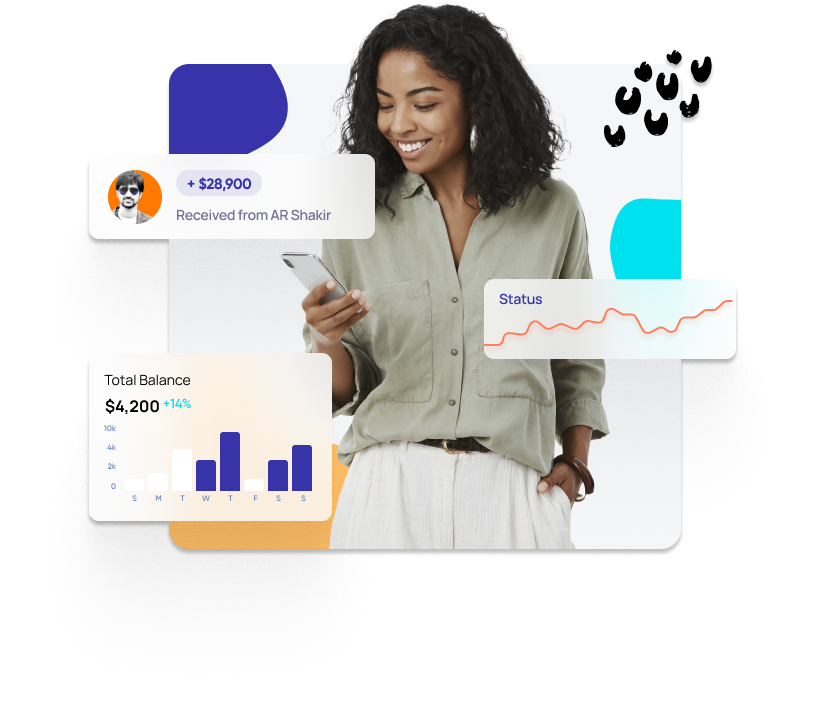
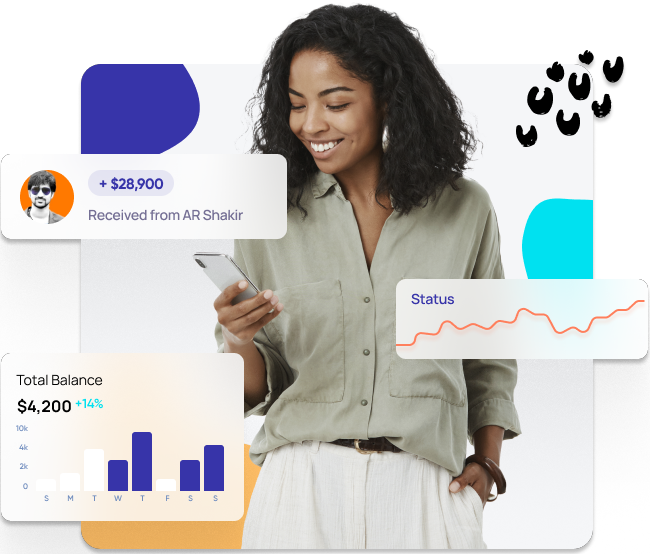
flexbox added

diff --git a/style.css b/style.css
@@ -1,3 +1,9 @@
+:root{
+    --primary-color:#3734A9;
+    --heading-color:#000;
+    --text-color:#757095;
+    --white-color:#fff;
+}
 *{
     margin: 0;
     padding: 0;
@@ -47,7 +53,7 @@ a, a:hover{
 }
 .navbar .menu ul li a{
     font-family: 'Manrope';
-    color: #000;
+    color: var(--heading-color);
     font-size: 14px;
     font-weight: 400;
 }
@@ -62,7 +68,7 @@ a, a:hover{
     text-align: right;
 }
 .navbar .nav-button .signin-btn{
-    color: #000;
+    color: var(--heading-color);
     font-family: 'Manrope';
     font-weight: 400;
     font-size: 14px;
@@ -74,8 +80,8 @@ a, a:hover{
     border: 0;
     padding: 17px 35px;
     border-radius: 7px;
-    background-color: #3734A9;
-    color: #fff;
+    background-color: var(--primary-color);
+    color: var(--white-color);
     font-family: 'Manrope';
     font-weight: 600;
     font-size: 14px;
@@ -90,7 +96,7 @@ a, a:hover{
 
 }
 .banner .banner-left .banner-text h1{
-    color: #000;
+    color: var(--heading-color);
     font-family: 'Manrope';
     font-size: 60px;
     font-weight: 800;
@@ -98,7 +104,7 @@ a, a:hover{
     letter-spacing: -0.03em;
 }
 .banner .banner-left .banner-text p{
-    color: #64607D;
+    color: var(--text-color);
     font-family: 'Manrope';
     font-size: 20px;
     font-weight: 400;
@@ -111,8 +117,8 @@ a, a:hover{
     border: 0;
     padding: 15px 35px;
     border-radius: 47px;
-    background-color: #3734A9;
-    color: #fff;
+    background-color: var(--primary-color);
+    color: var(--white-color);
     font-family: 'Manrope';
     font-weight: 600;
     font-size: 16px;
@@ -136,7 +142,7 @@ a, a:hover{
 .banner .banner-left .banner-btn .w-btn .works-btn{
     background: transparent;
     border: 0;
-    color: #3734A9;
+    color: var(--primary-color);
     font-family: 'Manrope';
     font-weight: 600;
     font-size: 17px;
@@ -146,16 +152,17 @@ a, a:hover{
 
 .banner .banner-right{
     width: 600px;
-}
-.banner .banner-right .banner-image{
     padding-top: 77px;
+}
+.banner .banner-right .banner-image img{
+    width: 100%;
 }
 .brand{
     margin-top: 71px;
     margin-bottom: 94px;
 }
 .brand .brand-text h5{
-    color: #000;
+    color: var(--heading-color);
     font-family: 'Manrope';
     font-weight: 400;
     font-size: 22px;
@@ -185,7 +192,7 @@ a, a:hover{
 }
 .payment .payment-right h5{
     margin-bottom: 25px;
-    color: #3734A9;
+    color: var(--primary-color);
     font-weight: 800;
     font-size: 18px;
     line-height: 25px;
@@ -194,7 +201,7 @@ a, a:hover{
 }
 .payment .payment-right h3{
     margin-bottom: 36px;
-    color: #000;
+    color: var(--heading-color);
     font-family: 'Manrope';
     font-weight: 700;
     line-height: 56px;
@@ -203,7 +210,7 @@ a, a:hover{
 }
 .payment .payment-right p{
     margin-bottom: 27px;
-    color: #64607D;
+    color: var(--text-color);
     font-family: 'Manrope';
     font-size: 20px;
     font-weight: 400;
@@ -212,9 +219,9 @@ a, a:hover{
 }
 .payment .payment-right .started-btn{
     border-radius: 7px;
-    color: #fff;
+    color: var(--white-color);
     padding: 15px 35px;
-    background-color: #3734A9;
+    background-color: var(--primary-color);
     font-family: 'Manrope';
     font-weight: 700;
     font-size: 16px;
@@ -238,7 +245,7 @@ a, a:hover{
 }
 .cta .cta-left .cta-text h5{
     margin-bottom: 25px;
-    color: #3734A9;
+    color: var(--primary-color);
     font-weight: 800;
     font-size: 18px;
     line-height: 25px;
@@ -247,7 +254,7 @@ a, a:hover{
 }
 .cta .cta-left .cta-text h3{
     margin-bottom: 36px;
-    color: #000;
+    color: var(--heading-color);
     font-family: 'Manrope';
     font-weight: 700;
     line-height: 56px;
@@ -256,7 +263,7 @@ a, a:hover{
 }
 .cta .cta-left .cta-text p{
     margin-bottom: 27px;
-    color: #64607D;
+    color: var(--text-color);
     font-family: 'Manrope';
     font-size: 20px;
     font-weight: 400;
@@ -271,7 +278,7 @@ a, a:hover{
     margin-top: 76px;
 }
 .cta .cta-right .cta-form h4{
-    color: #3734A9;
+    color: var(--primary-color);
     font-family: 'Manrope';
     font-weight: 700;
     font-size: 24px;
@@ -285,10 +292,10 @@ a, a:hover{
     border:none;
     border-radius: 5px;
     margin-bottom: 24px;
-    background-color: #fff;
+    background-color: var(--white-color);
 }
 .cta .cta-right .cta-form input::placeholder{
-    color: #64607D;
+    color: var(--text-color);
     font-family: 'Manrope';
     font-weight: 400;
     font-size: 20px;
@@ -301,7 +308,7 @@ a, a:hover{
 .cta .cta-right .cta-form button{
     padding: 16px 125px;
     background-color: #FF7F5C;
-    color: #fff;
+    color: var(--white-color);
     border: none;
     border-radius: 5px;
     font-family: 'Manrope';
@@ -315,4 +322,113 @@ a, a:hover{
     position: absolute;
     top: -19px;
     right: 5px;
+    z-index: 5;
+}
+.feature{
+    display: flex;
+}
+.feature .feature-left{
+    width: 579px;
+    margin-top: 173px;
+}
+.feature .feature-left .feature-text h5{
+    margin-bottom: 25px;
+    color: var(--primary-color);
+    font-weight: 800;
+    font-size: 18px;
+    line-height: 25px;
+    font-family: 'Manrope';
+    text-transform: uppercase;
+}
+.feature .feature-left .feature-text h3{
+    margin-bottom: 26px;
+    color: var(--heading-color);
+    font-family: 'Manrope';
+    font-weight: 700;
+    line-height: 56px;
+    letter-spacing: -0.03em;
+    font-size: 50px;
+    max-width: 542px;
+}
+.feature .feature-left .feature-text p{
+    margin-bottom: 27px;
+    color: var(--text-color);
+    font-family: 'Manrope';
+    font-size: 20px;
+    font-weight: 400;
+    line-height: 30px;
+    letter-spacing: -0.02em;
+}
+.feature .feature-left .feature-btn{
+    border: 0;
+    border-radius: 7px;
+    color: var(--white-color);
+    padding: 15px 35px;
+    background-color: var(--primary-color);
+    font-family: 'Manrope';
+    font-weight: 700;
+    font-size: 16px;
+    letter-spacing: -0.02em;
+}
+
+.feature .feature-right{
+    width: 564px;
+    margin-top: 98px;
+}
+.feature .feature-right img{
+    width: 100%;
+}
+.testomonial{
+
+}
+.testomonial .testomonial-title{
+
+}
+.testomonial .testomonial-title h4{
+    color: var(--primary-color);
+    font-family: 'Manrope';
+    font-weight: 700;
+    font-size: 14px;
+    line-height: 19px;
+    letter-spacing: -0.02em;
+}
+.testomonial .testomonial-title h3{
+    color: var(--heading-color);
+    font-family: 'Manrope';
+    font-weight: 800;
+    font-size: 40px;
+    line-height: 48px;
+    letter-spacing: -0.03em;
+    max-width: 324px;
+}
+.testomonial .slider-left{
+
+}
+.testomonial .slider-left .image-card{
+
+}
+.testomonial .slider-left .image-card .reviewer-info{
+
+}
+.testomonial .slider-left .image-card .reviewer-info h5{
+    font-family: 'Manrope';
+    font-weight: 800;
+    font-size: 16px;
+    line-height: 30px;
+    letter-spacing: -0.03em;
+    color: var(--heading-color);
+}
+.testomonial .slider-left .image-card .reviewer-info p{
+    font-family: 'Manrope';
+    color: var(--text-color);
+    font-weight: 400;
+    font-size: 14px;
+    line-height: 24px;
+    letter-spacing: -0.02em;
+}
+.testomonial .slider-left .image-card .reviewer-brand{
+
+}
+.testomonial .slider-right{
+
 }

diff --git a/index.html b/index.html
@@ -93,9 +93,9 @@
     <div class="wrapper cta">
         <div class="cta-left">
             <div class="cta-text">
-            <h5>Our Feature</h5>
-            <h3>Receive payments quickly from anywhere</h3>
-            <p>Why kept very ever home mrs. Considered sympathize ten uncommonly occasional assistance sufficient not. Letter of on become he tended active enable to.</p>
+                <h5>Our Feature</h5>
+                <h3>Receive payments quickly from anywhere</h3>
+                <p>Why kept very ever home mrs. Considered sympathize ten uncommonly occasional assistance sufficient not. Letter of on become he tended active enable to.</p>
             </div>
         </div>
         <div class="cta-right">
@@ -114,5 +114,51 @@
         
     </div>
     <!-- cta section end -->
+    <!-- feature section start-->
+    <div class="wrapper feature">
+        <div class="feature-left">
+            <div class="feature-text">
+                <h5>Our Feature</h5>
+                <h3>All payments are
+                linked to your Financy
+                account</h3>
+                <p>Why kept very ever home mrs. Considered sympathize ten uncommonly occasional assistance sufficient not. Letter of on become he tended active enable to.</p>
+            </div>
+            <button type="button" class="btn feature-btn">Get Started</button>
+        </div>
+        <div class="feature-right">
+            <img src="images/feature/varified-teacher.png" alt="">
+        </div>
+    </div>
+    <!-- feature section end -->
+    <!-- testomonial section start -->
+    <div class="wrapper testomonial">
+        <div class="testomonial-title">
+            <h4>Testimonials</h4>
+            <h3>Check what our 
+                clients are saying</h3>
+        </div>
+        <div class="slider-left">
+            <div class="image-card">
+                <div class="reviewer-info">
+                    <h5>Angela Taylor</h5>
+                    <p>CEO SAMSUNG</p>
+                </div>
+                <div class="reviewer-image">
+                    <img src="images/testomonial/reviewer.png" alt="">
+                </div>
+                <div class="reviewer-brand">
+                    <img src="images/testomonial/samsung.svg" alt="">
+                </div>
+                <div class="card-shape">
+                    <img src="images/testomonial/shape-wave.svg" alt="">
+                </div>
+            </div>
+        </div>
+        <div class="slider-right">
+
+        </div>
+    </div>
+    <!-- testomonial section end -->
 </body>
 </html>

diff --git a/README.md b/README.md
@@ -1,1 +1,1 @@
-# saas-landing-page
+# saas-landing-page #
